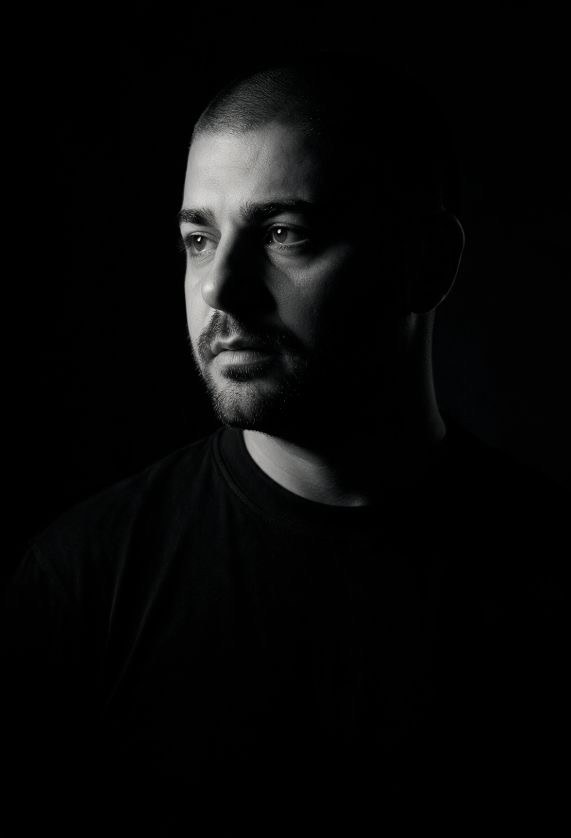
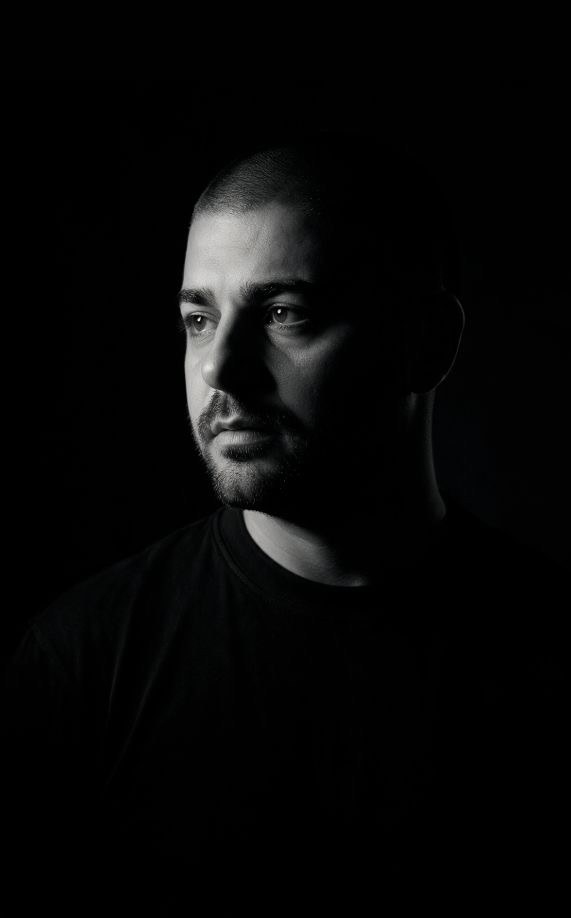
Chi sono: ritratto con più aria sopra la testa
Claude-Session: https://claude.ai/code/session_01SYGA9w7dSJH98Qzrcsrjhr

Changed region(s): [[0.2977, 0.0931, 0.6252, 0.6516], [0.7443, 0.4964, 0.7741, 0.5274]]

diff --git a/index.html b/index.html
@@ -563,7 +563,7 @@
 
       <div data-aos="fade-right" class="lg:col-span-5 relative">
         <div class="relative aspect-[4/5] rounded-3xl bg-gradient-to-br from-acid/25 via-card to-acidDeep/15 border border-white/10 overflow-hidden">
-          <img src="assets/images/avatar.webp" alt="Ritratto di Federico Gennaro" class="absolute inset-0 h-full w-full object-cover" loading="lazy" onerror="this.style.opacity='0'">
+          <img src="assets/images/avatar.webp" alt="Ritratto di Federico Gennaro" class="absolute inset-0 h-full w-full object-cover" style="object-position:50% 0%" loading="lazy" onerror="this.style.opacity='0'">
           <div class="absolute inset-0 flex items-center justify-center text-white/25 text-sm"></div>
         </div>
         <div class="absolute -bottom-6 -right-4 sm:-right-8 glass border border-white/10 rounded-2xl px-5 py-4 shadow-glow">
